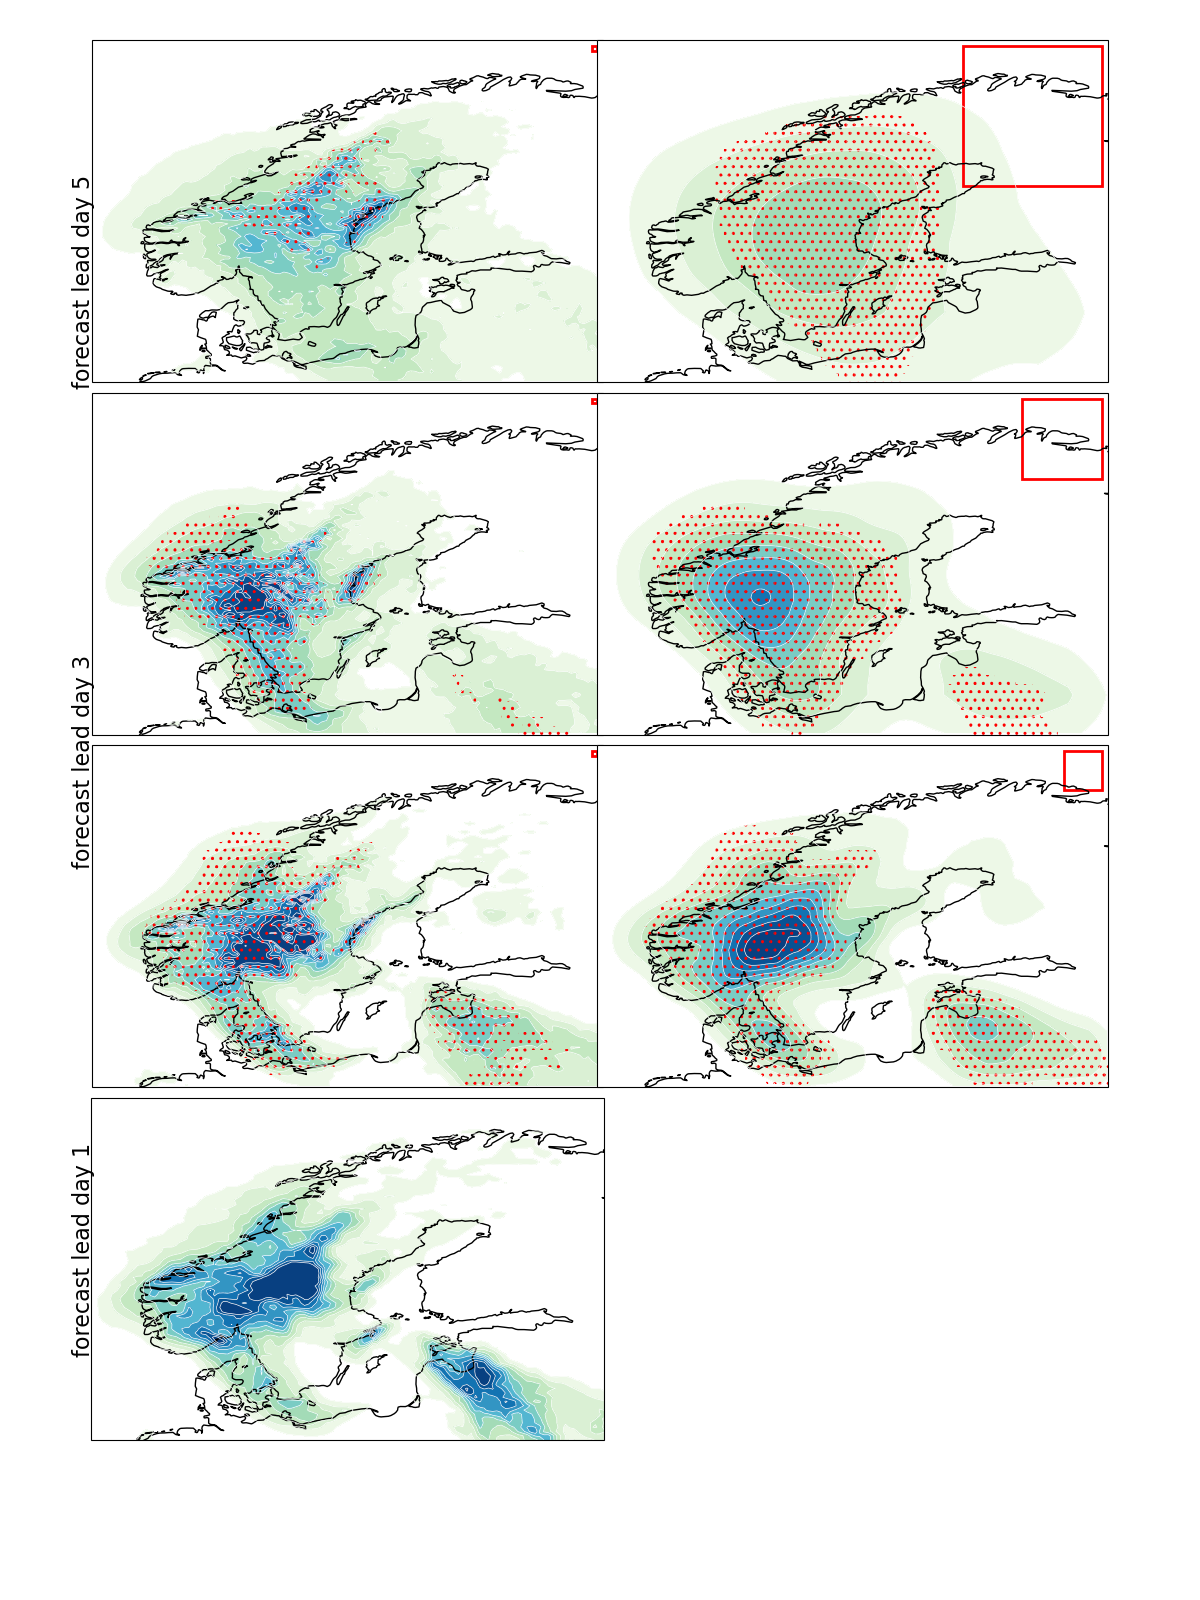
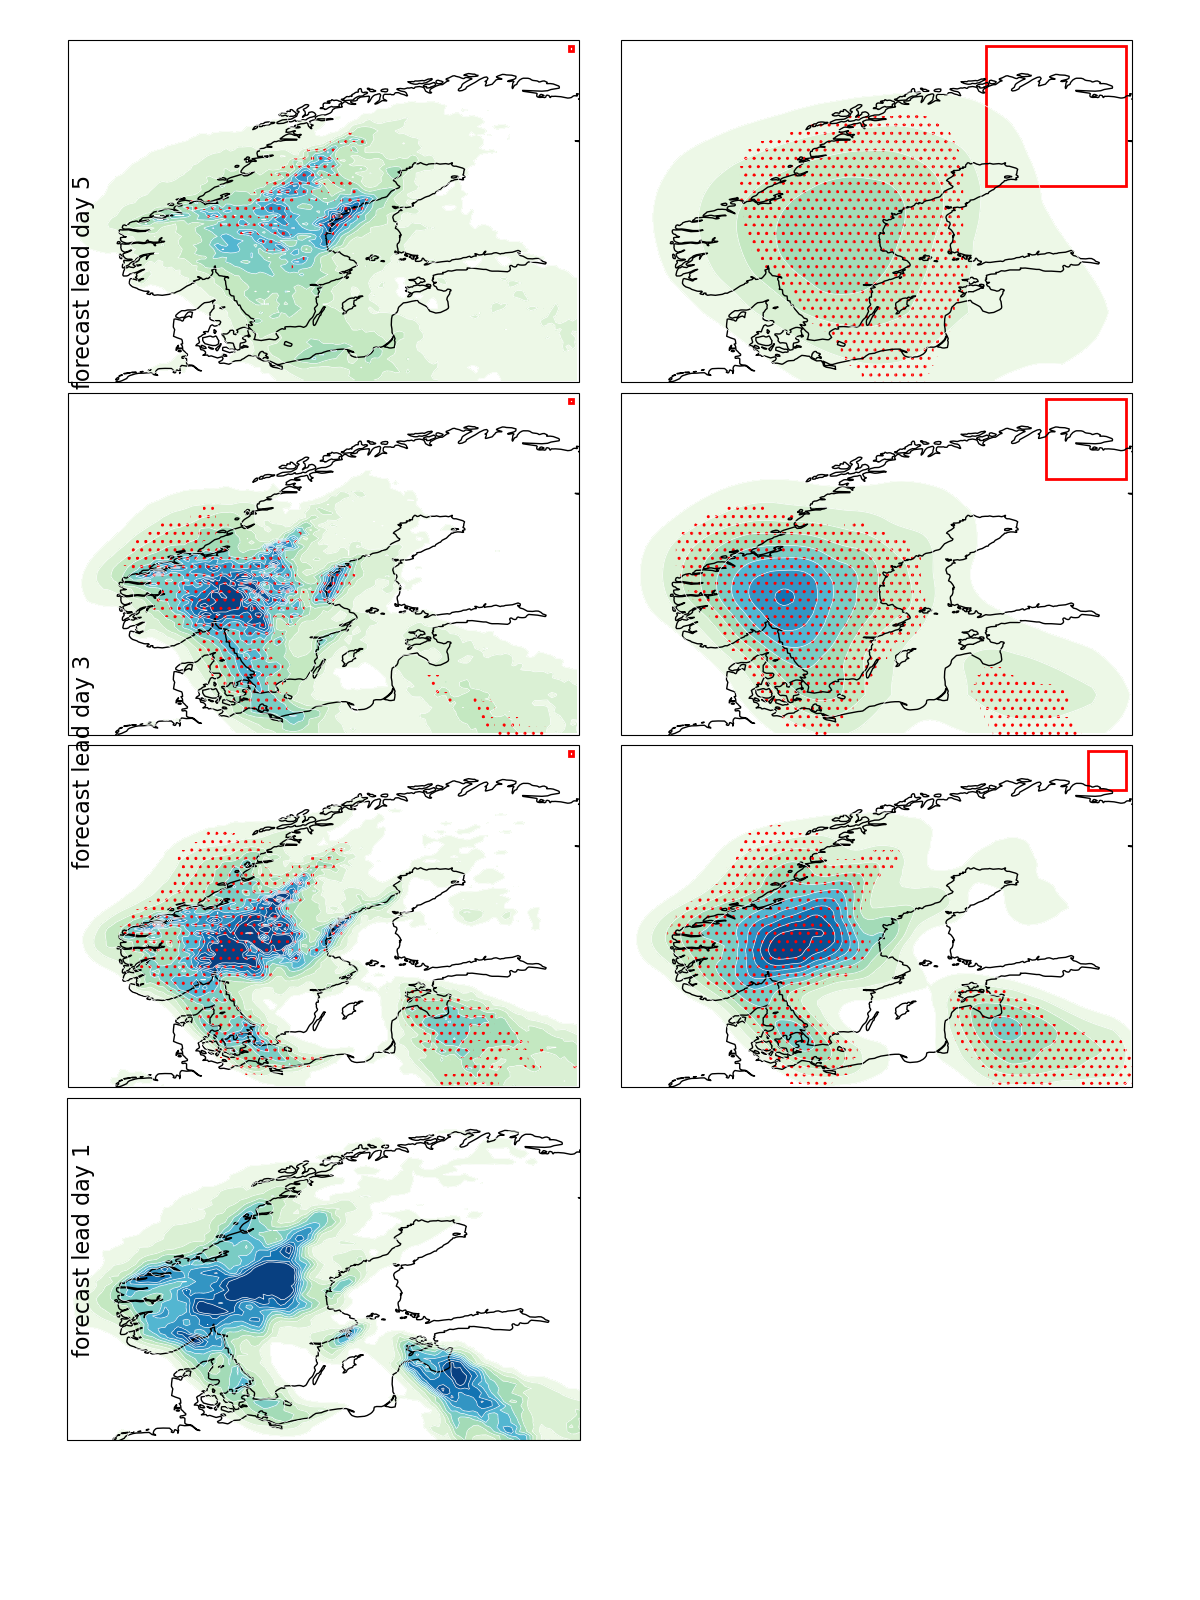
update

diff --git a/code/plot/test.py b/code/plot/test.py
@@ -87,7 +87,7 @@ figsize  = np.array([12,16])
 fig,ax   = plt.subplots(nrows=4,ncols=2,figsize=(figsize[0],figsize[1]),subplot_kw={'projection': ccrs.PlateCarree(central_longitude=0.0)})
 ax       = ax.ravel()
 
-fig.subplots_adjust(right=0.95, left=0.05,top=0.975,bottom=0.1,hspace=0.03,wspace=-0.12)
+fig.subplots_adjust(right=0.95, left=0.05,top=0.975,bottom=0.1,hspace=0.03,wspace=0.05)
 
 title1 = r'a) 1 gridpoint$^2$ precision'
 title2 = r'b) 33 gridpoint$^2$ precision'
